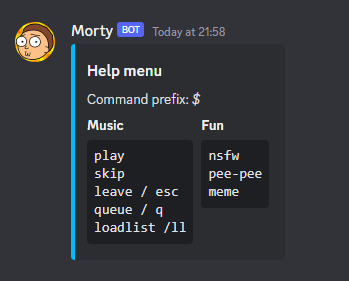
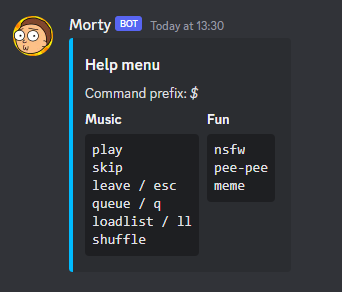
added shuffle command

diff --git a/cogs/music.py b/cogs/music.py
@@ -19,7 +19,7 @@ Q[i] = [[player,url]]
 
 """
 # Libs
-from ast import alias
+import random
 import helpers.str as str_conv
 from helpers.loader import *
 # Additional libs
@@ -108,6 +108,12 @@ class Music(commands.Cog):
             embed = discord.Embed(title="There's nothing in the queue",color=discord.Color.from_rgb(*EMBED_COLORS["red"]))
             await(ctx.send(embed=embed))
         logger.Log("QUEUE",ctx.guild,ctx.message.author.name,time.ctime()).action()
+
+    # Shuffle queue
+    @commands.command(name="shuffle", aliases=["SHUFFLE"])
+    async def shuffle_list(self,ctx: commands.Context):
+        random.shuffle(self.queue[ctx.guild.id])
+        logger.Log("SHUFFLE",ctx.guild,ctx.message.author.name,time.ctime()).action()
 
     # Stop / Skip audio
     @commands.command(name="skip", aliases=["stop","SKIP","STOP"])

diff --git a/bot.py b/bot.py
@@ -47,7 +47,7 @@ async def on_ready():
 @bot.command(name="help")
 async def help(ctx):
     embed = discord.Embed(title="Help menu",description="Command prefix: *$*",color=discord.Color.from_rgb(0,188,255))
-    embed.add_field(name="Music",value="""```\rplay\nskip\nleave / esc\nqueue / q\nloadlist /ll\r```""")
+    embed.add_field(name="Music",value="""```\rplay\nskip\nleave / esc\nqueue / q\nloadlist / ll\nshuffle\r```""")
     embed.add_field(name="Fun",value="""```\rnsfw\npee-pee\nmeme\r```""")
     await(ctx.send(embed=embed))
 

diff --git a/README.md b/README.md
@@ -14,6 +14,8 @@ Fun discord bot
 <br>Shows music queue
 - loadlist / ll
 <br>Loads playlist to queue
+- shuffle
+<br>Randomises the queue
 
 ### Fun:
 - nsfw
